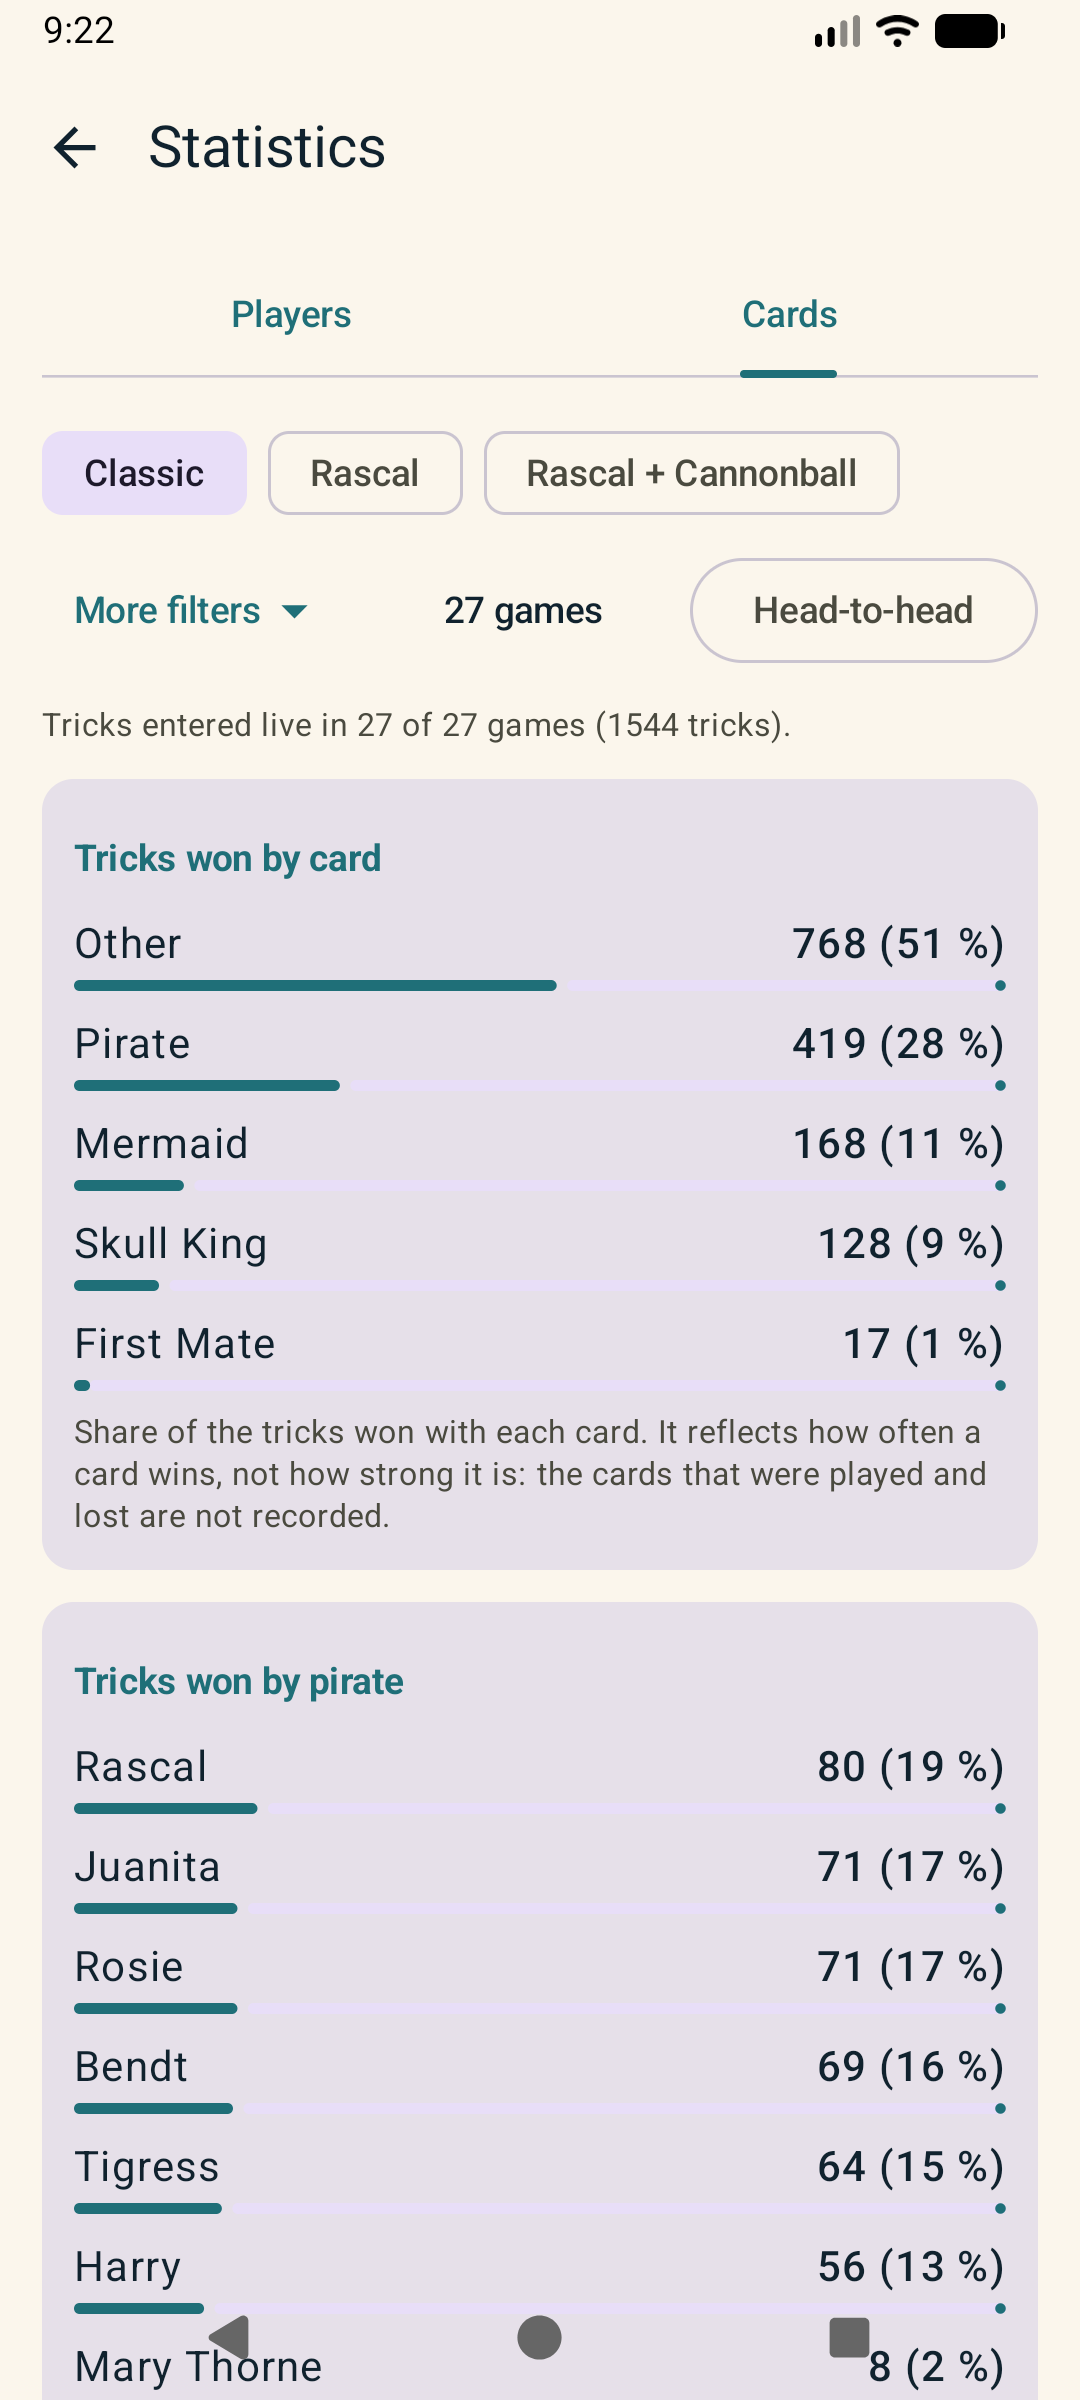
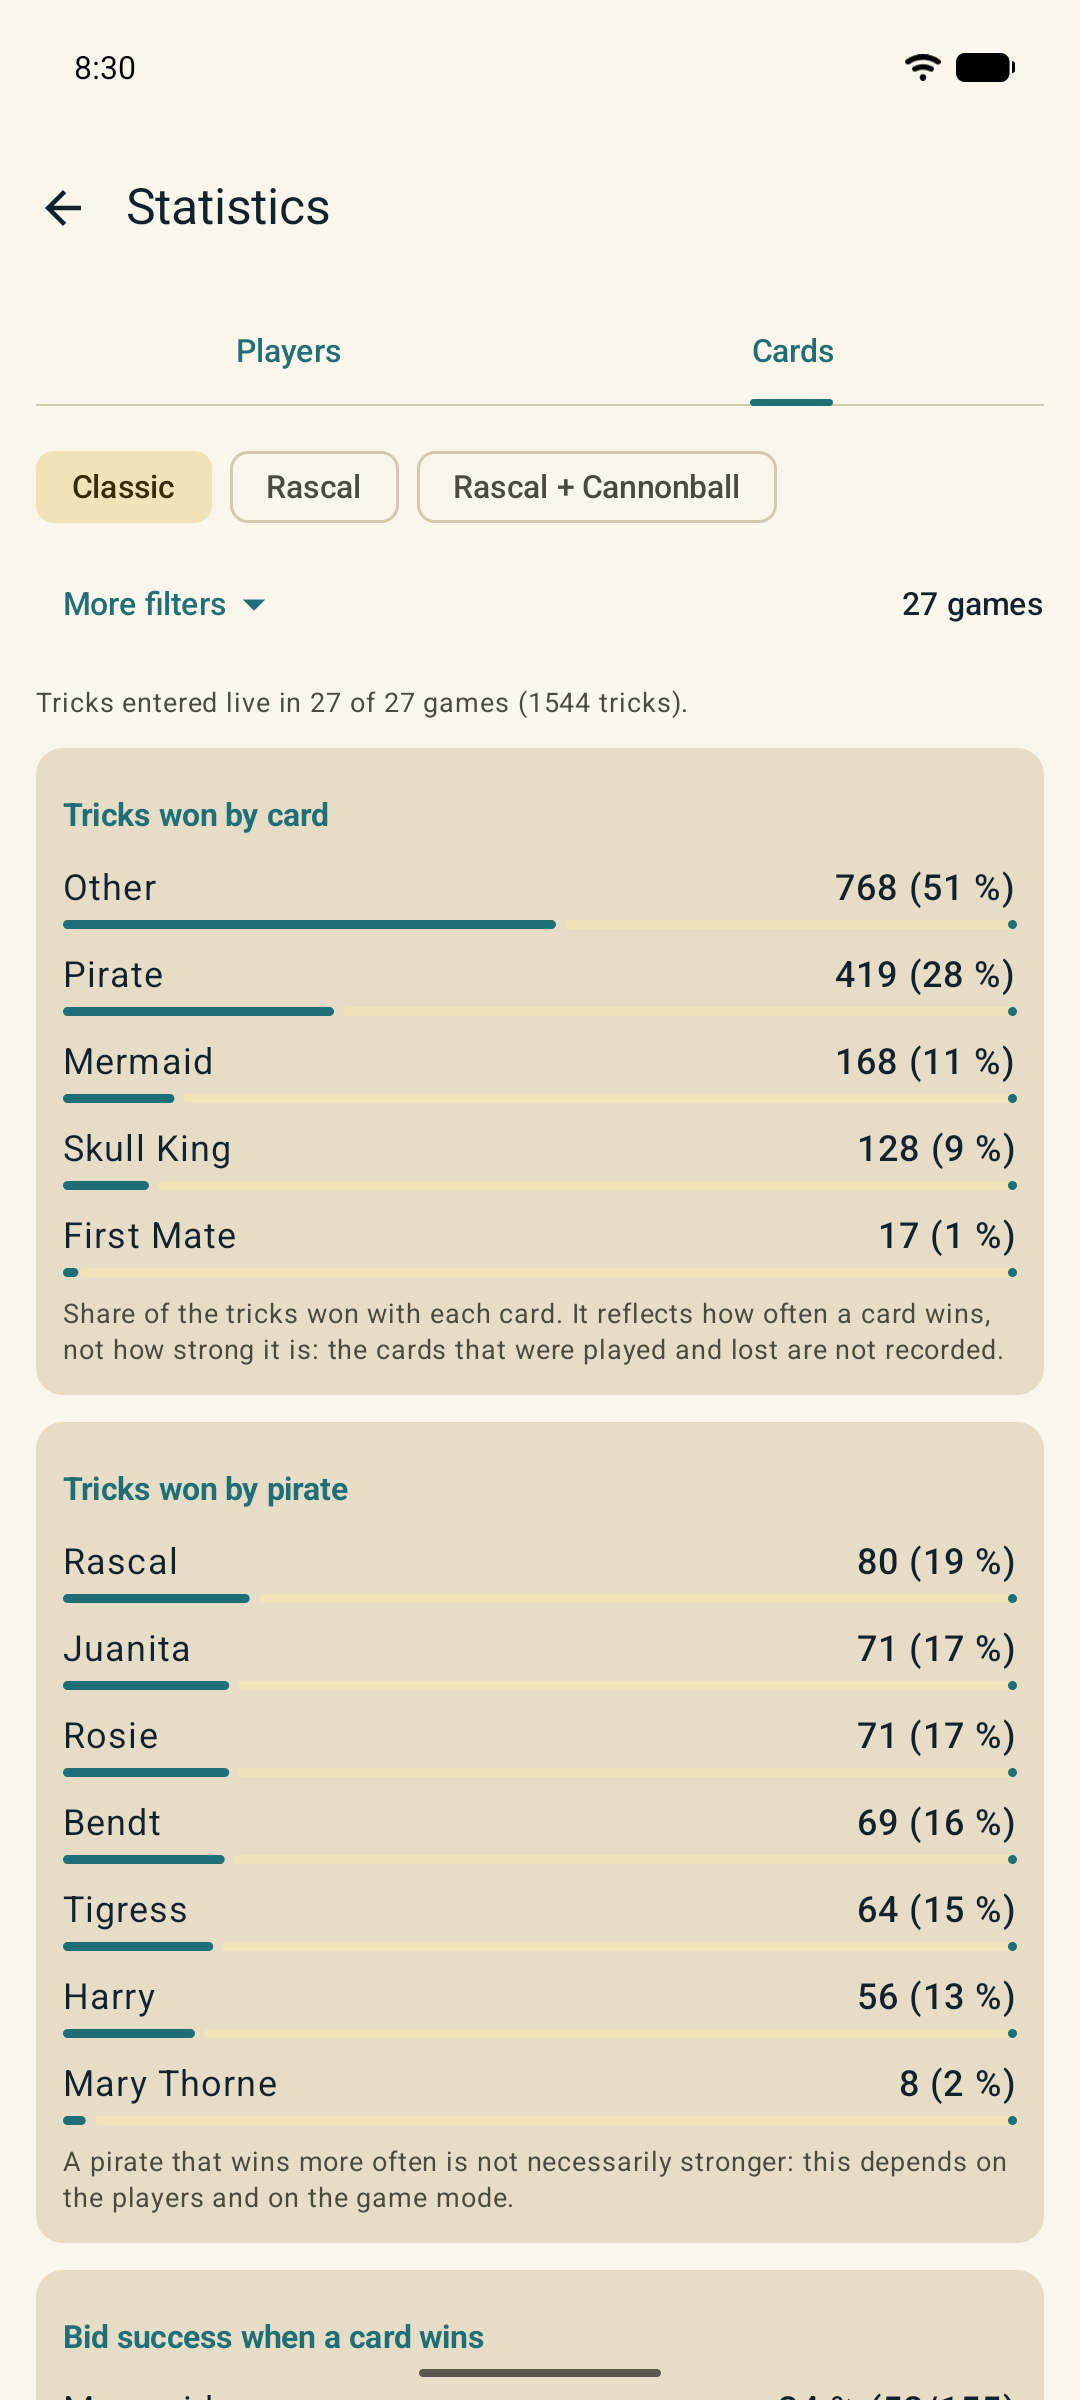
Refresh the screenshots
Retake all the screenshots from the demo data and add new screens (bids, trick entry, podium, head-to-head, expansion, help), for the README and the F-Droid listing.

diff --git a/README.md b/README.md
@@ -6,11 +6,11 @@ An Android score pad for the **Skull King** card game: enter each player's bid a
 points (bonuses included) for the chosen scoring mode, replacing the paper score sheet.
 
 <p align="center">
-  <img src="docs/screenshots/home.png" width="19%" alt="Home screen" />
+  <img src="docs/screenshots/home.png" width="19%" alt="Home screen with a game in progress" />
   <img src="docs/screenshots/new-game.png" width="19%" alt="New game: players in table order and dealer" />
-  <img src="docs/screenshots/scoreboard.png" width="19%" alt="Scoreboard" />
-  <img src="docs/screenshots/score-curve.png" width="19%" alt="Score curve of a game" />
-  <img src="docs/screenshots/statistics.png" width="19%" alt="Player statistics" />
+  <img src="docs/screenshots/bids.png" width="19%" alt="Bids of a round" />
+  <img src="docs/screenshots/play.png" width="19%" alt="Round in progress, trick by trick" />
+  <img src="docs/screenshots/trick-entry.png" width="19%" alt="Trick entry: winner, card and captured cards" />
 </p>
 
 ## Features
@@ -34,9 +34,19 @@ points (bonuses included) for the chosen scoring mode, replacing the paper score
 - Built-in help with search
 
 <p align="center">
-  <img src="docs/screenshots/history.png" width="24%" alt="History with an expanded game" />
-  <img src="docs/screenshots/card-statistics.png" width="24%" alt="Card statistics" />
-  <img src="docs/screenshots/statistics-image.png" width="24%" alt="Shareable statistics image of a player" />
+  <img src="docs/screenshots/scoreboard.png" width="19%" alt="Scoreboard table" />
+  <img src="docs/screenshots/score-curve.png" width="19%" alt="Score curve of a game" />
+  <img src="docs/screenshots/podium.png" width="19%" alt="Podium at the end of a game" />
+  <img src="docs/screenshots/history.png" width="19%" alt="History with an expanded game" />
+  <img src="docs/screenshots/statistics.png" width="19%" alt="Player statistics" />
+</p>
+
+<p align="center">
+  <img src="docs/screenshots/card-statistics.png" width="19%" alt="Card statistics" />
+  <img src="docs/screenshots/head-to-head.png" width="19%" alt="Head-to-head between two players" />
+  <img src="docs/screenshots/statistics-image.png" width="19%" alt="Shareable statistics image of a player" />
+  <img src="docs/screenshots/expansion.png" width="19%" alt="2026 expansion cards, enabled one by one" />
+  <img src="docs/screenshots/help.png" width="19%" alt="Built-in help" />
 </p>
 
 ## Architecture
@@ -108,6 +118,11 @@ it are described in [`demo/README.md`](demo/README.md).
 
 Third-party actions are pinned to a commit SHA; Dependabot keeps them up to date.
 The instrumented-tests job can be turned off by setting the repository variable `SKIP_INSTRUMENTED_TESTS` to `true`.
+
+## F-Droid
+
+The store listing lives in [`fastlane/metadata/android`](fastlane/metadata/android); the submission recipe and the
+release checklist are in [`docs/fdroid`](docs/fdroid/README.md).
 
 ## License
 
